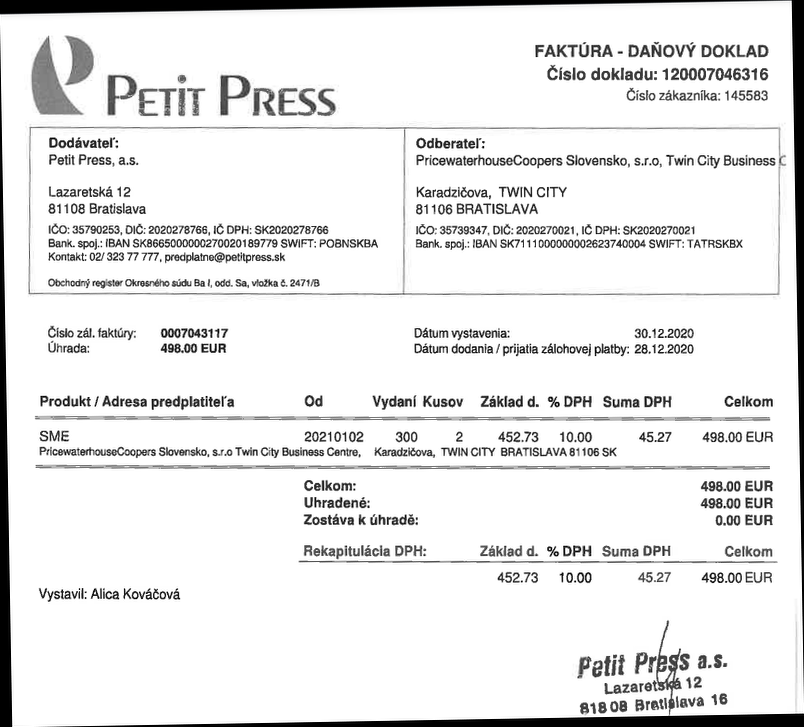
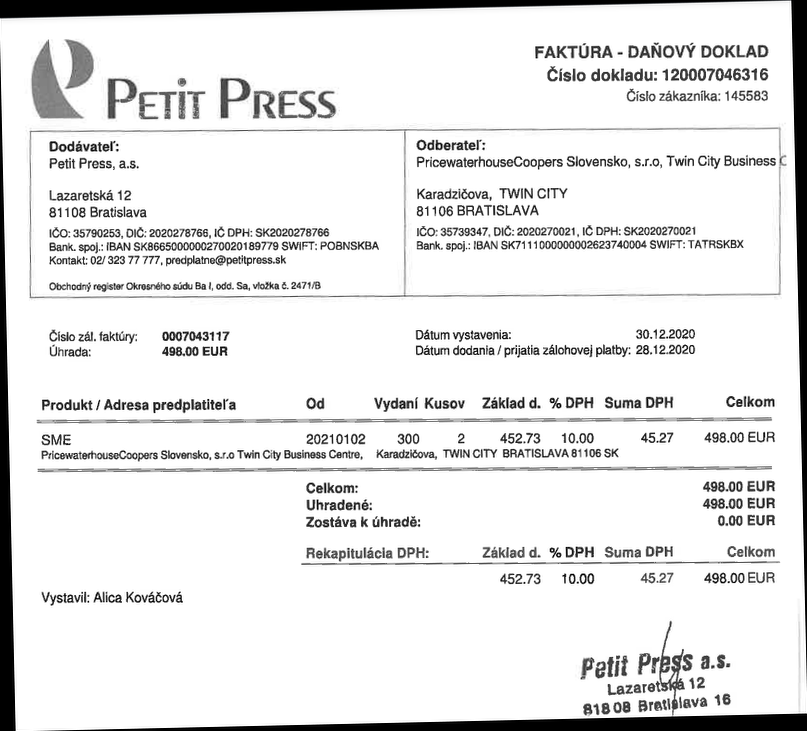
Added rotation threshold, more samples

diff --git a/multiple.py b/multiple.py
@@ -35,11 +35,13 @@ def rotate_bound(image, angle, inter):
     # perform the actual rotation and return the image
     return cv2.warpAffine(image, M, (nW, nH), flags=inter)
 
-
-def detect_strong_lines(image):
-    lines = cv2.HoughLines(edges, rho=1, theta=np.pi / 180, threshold=250)
+# detects ~30deg offset 1, 2.2
+def detect_strong_hlines(image):
+    lines = cv2.HoughLines(image, rho=1, theta=np.pi / 180, threshold=200, min_theta=1, max_theta=2.2)
 
     # Convert to 2d array
+    if lines is None:
+        return None
     lines = lines[:, 0, :]
 
     # Filter out lines_detected that are too similar - i.e. close by pixels with similar angle
@@ -58,6 +60,18 @@ def detect_strong_lines(image):
     return strong_lines
 
 
+def plot_images(images: list, figure_name: str = 'fig'):
+    img1, img2 = images
+    fig, (ax1, ax2) = plt.subplots(1, 2)
+    fig.canvas.manager.set_window_title(figure_name)
+    fig.set_figheight(6)
+    fig.set_figwidth(12)
+    ax1.imshow(img1)
+    ax2.imshow(img2)
+    plt.tight_layout()
+    plt.show()
+
+
 def display_lines(image, lines, color=(255, 0, 0)):
     for line in lines:
         rho = line[0]
@@ -74,25 +88,28 @@ def display_lines(image, lines, color=(255, 0, 0)):
     return image
 
 
-# Import images
+# Import image_array
 pattern = 'images/*.png'
 paths = glob.glob(pattern)
-images = [cv2.imread(path) for path in paths]
+image_array = [cv2.imread(path) for path in paths]
 filenames = [os.path.basename(path) for path in paths]
 
-for img, filename in zip(images, filenames):
+for img, filename in zip(image_array, filenames):
     print(f'File: {filename}')
+    # Create copy of img for the output
+    img_rotated = img.copy()
+
     # Convert to greyscale
     gray = cv2.cvtColor(img, cv2.COLOR_BGR2GRAY)
 
     # Canny edge detection
     edges = cv2.Canny(gray, 50, 150, apertureSize=3)
 
-    # Create copy of img for the output
-    img_rotated = img.copy()
-
     # Detect strong lines
-    lines_detected = detect_strong_lines(img)
+    lines_detected = detect_strong_hlines(edges)
+    if lines_detected is None:
+        print('No lines detected, no rotation.')
+        continue
     print(f'Detected {lines_detected.shape[0]} strong lines =\n{lines_detected}')
 
     # Add lines_detected to the original img
@@ -102,22 +119,18 @@ for img, filename in zip(images, filenames):
     theta_values = lines_detected[:, 1]
     rad_mode = stat.mode(theta_values)
     deg_mode = math.degrees(rad_mode)
-    rotate_deg = (-1) * (90 - deg_mode)
+    rotate_deg = 90 - deg_mode
+
+    print(f'Deg_mode = {deg_mode}')
+    if abs(rotate_deg) <= 0.5:
+        print(f'Document is off by {rotate_deg} degrees - too low, not rotating.\n')
+        continue
     print(f'Rotation by: {rotate_deg} degrees\n')
 
     # Rotate
-    img_rotated = rotate_bound(img_rotated, (-1) * rotate_deg, inter=cv2.INTER_LANCZOS4)
+    img_rotated = rotate_bound(img_rotated, rotate_deg, inter=cv2.INTER_LANCZOS4)
 
-    # # Display images (plot)
-    # height, width, channels = img.shape
-    # fig, (ax1, ax2) = plt.subplots(1, 2)
-    # fig.canvas.manager.set_window_title(filename)
-    # fig.set_figheight(6)
-    # fig.set_figwidth(12)
-    # ax1.imshow(img)
-    # ax2.imshow(img_rotated)
-    # plt.tight_layout()
-    # plt.show()
+    plot_images([img, img_rotated], filename)
 
     # Save the rotated image
     output_filename = os.path.splitext(filename)[0] + '-rotated.png'

diff --git a/single.py b/single.py
@@ -104,8 +104,7 @@ print(f'Rotation by: {rotate_deg} degrees')
 # Rotate the image
 img_rotated = rotate_bound(img_rotated, (-1) * rotate_deg, inter=cv2.INTER_LANCZOS4)
 
-# Display images (plot)
-height, width, channels = img.shape
+# Display image_array (plot)
 fig, (ax1, ax2) = plt.subplots(1, 2)
 fig.canvas.manager.set_window_title(path.name)
 fig.set_figheight(6)
@@ -115,7 +114,7 @@ ax2.imshow(img_rotated)
 plt.tight_layout()
 plt.show()
 
-# # Display images
+# # Display image_array
 # cv2.imshow('img', img)
 # cv2.imshow('rotated', img_rotated)
 # cv2.waitKey(0)

diff --git a/todo.md b/todo.md
@@ -4,6 +4,6 @@
 - [x] Slope detection
 - [x] Straightening documents
 - [x] Nice output (img with lines/result)
-- [x] Support for multiple input > output
-- [ ] Set angle threshold when a document shouldnt be rotated
-- [ ] Wrap everything into functions
+- [x] multiple input > output
+- [x] Figure out angle threshold when a document shouldnt be rotated
+- [ ] Handle cases where the document is oriented vertically
